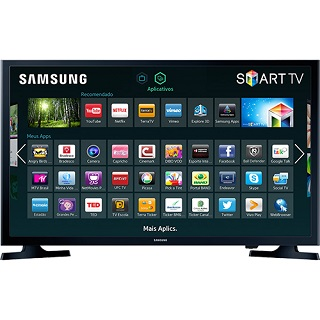
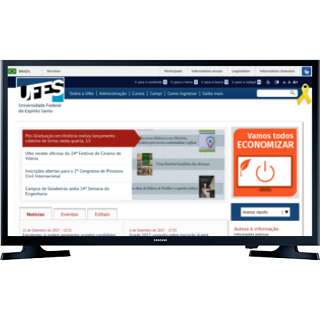
Alteração nas imagens da TV

diff --git a/loja/index.html b/loja/index.html
@@ -101,7 +101,7 @@
                     <div class="thumbnail">
                         <img src="img/tv.jpg" alt="...">
                         <div class="caption">
-                            <h5>Smart TV LED 32" Samsung 32J4300</h5>
+                            <h5>Smart TV UFES LED 32" COM11261</h5>
                             <br>
                             <h4>R$ 1499,00</h4>
                             <h6>12 X R$150,50</h6>
@@ -110,28 +110,28 @@
                 </div>
             </a>
 
-            <a href="tv.html">
+            <a href="#">
                 <div class="col-sm-6 col-md-4 produto">
                     <div class="thumbnail">
-                        <img src="img/tv.jpg" alt="...">
+                        <img src="img/armario.jpg" alt="...">
                         <div class="caption">
-                            <h5>Smart TV LED 32" Samsung 32J4300</h5>
+                            <h5>Armário azul quadrado</h5>
                             <br>
-                            <h4>R$ 1499,00</h4>
-                            <h6>12 X R$150,50</h6>
+                            <h4>R$ 499,00</h4>
+                            <h6>12 X R$50,50</h6>
                         </div>
                     </div>
                 </div>
             </a>
-            <a href="tv.html">
+            <a href="#">
                 <div class="col-sm-6 col-md-4 produto">
                     <div class="thumbnail">
-                        <img src="img/tv.jpg" alt="...">
+                        <img src="img/frigobar.jpg" alt="...">
                         <div class="caption">
-                            <h5>Smart TV LED 32" Samsung 32J4300</h5>
+                            <h5>Frigobar feiao</h5>
                             <br>
-                            <h4>R$ 1499,00</h4>
-                            <h6>12 X R$150,50</h6>
+                            <h4>R$ 1099,00</h4>
+                            <h6>12 X R$110,50</h6>
                         </div>
                     </div>
                 </div>
